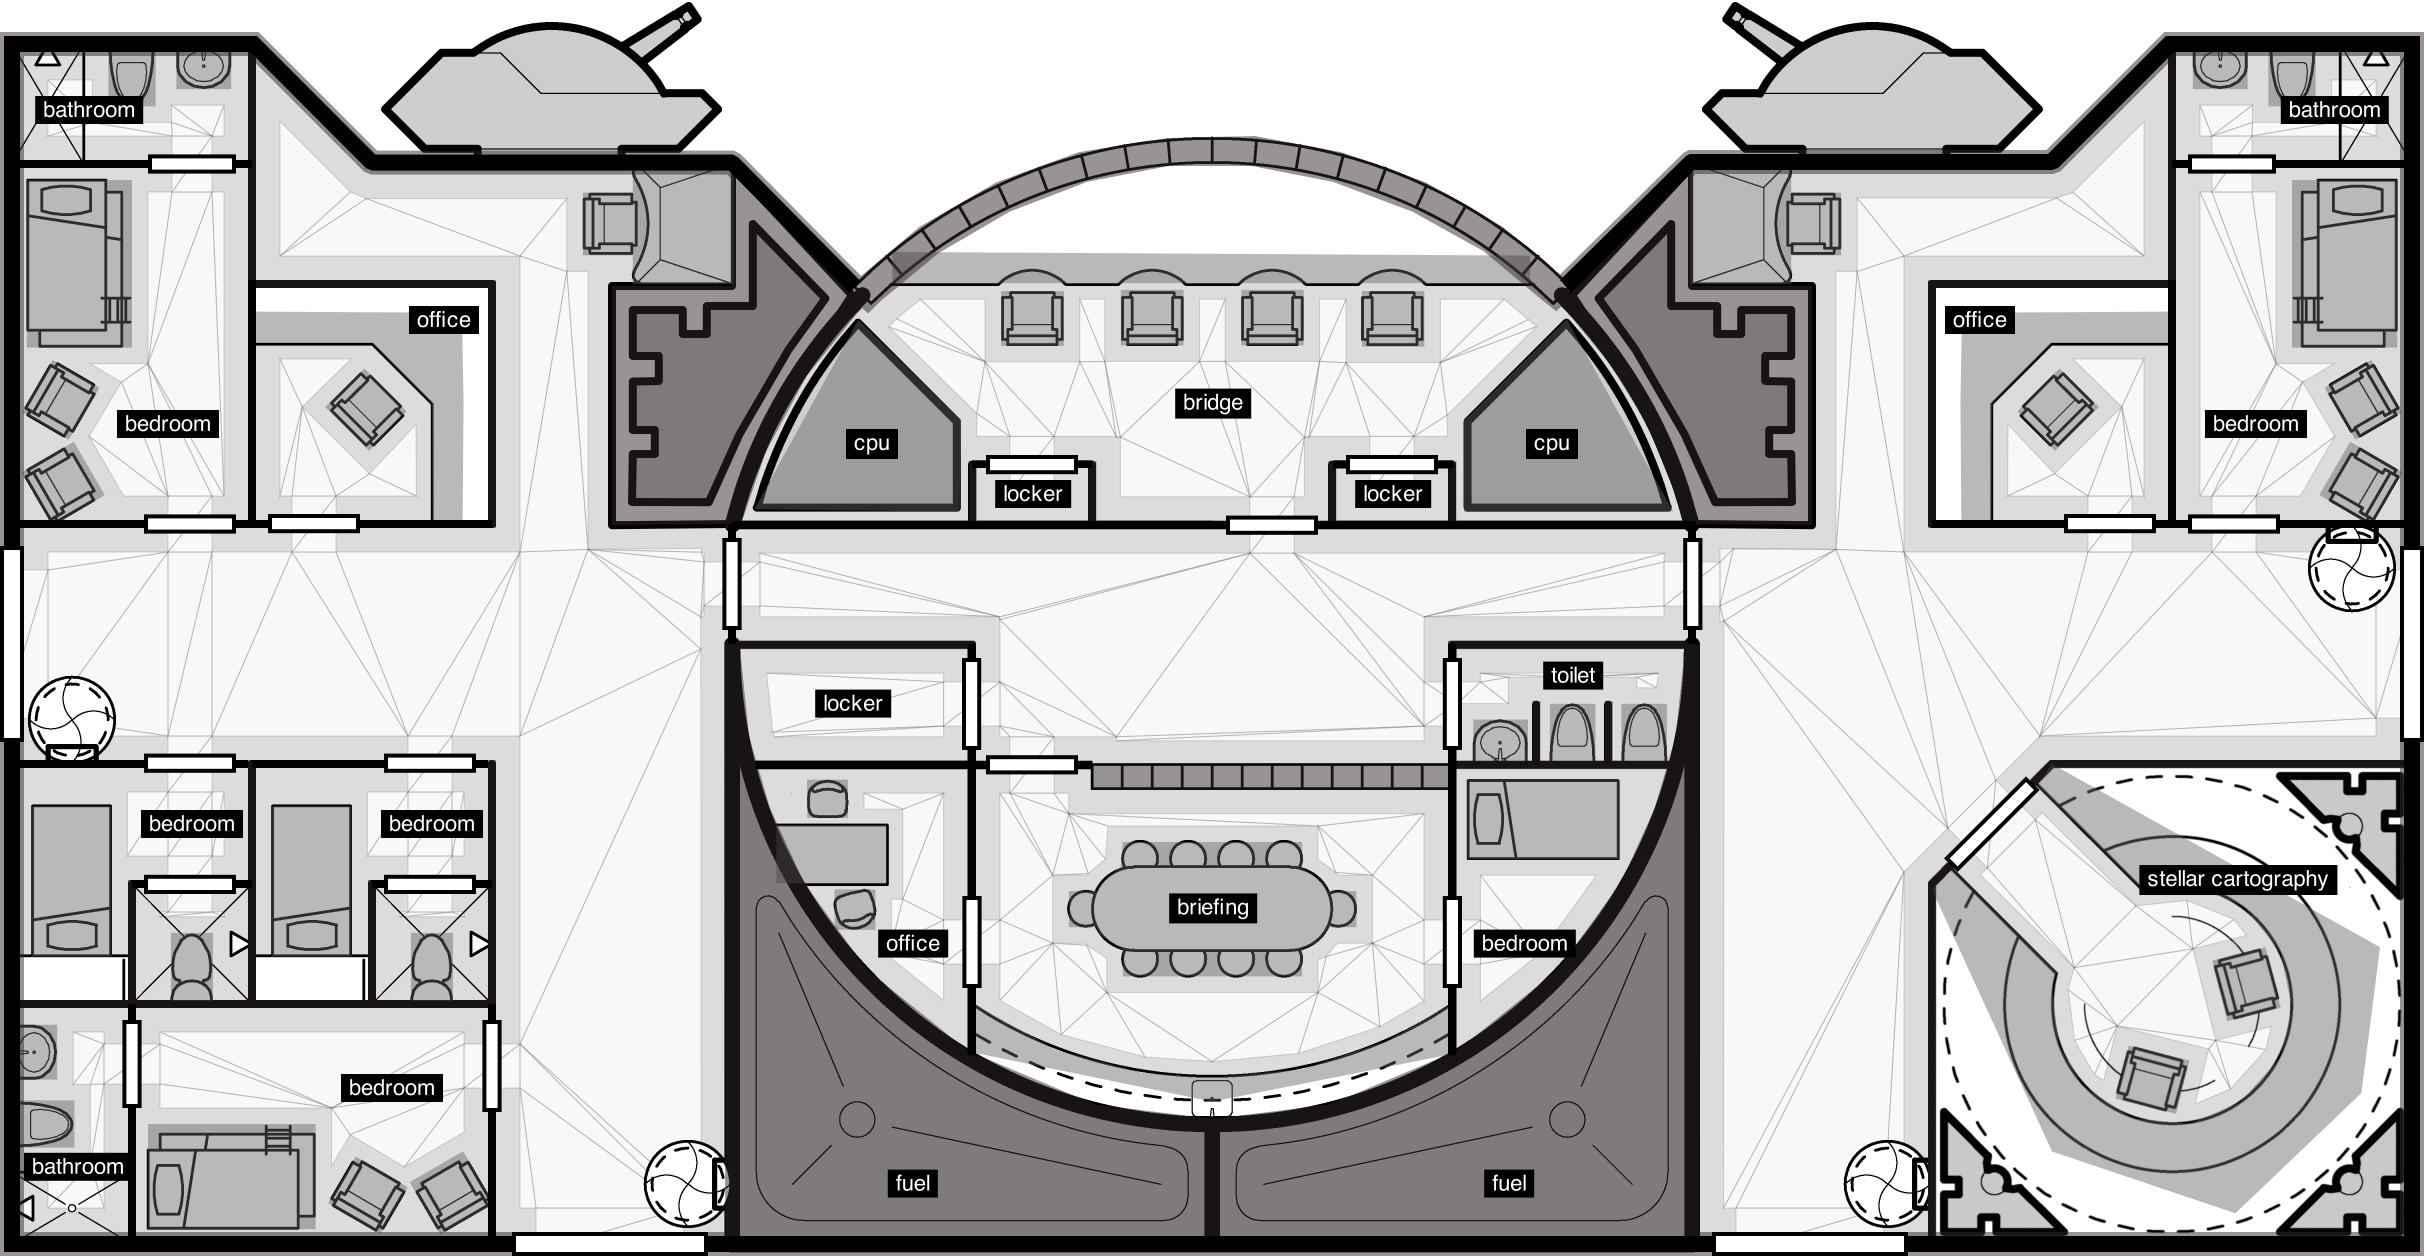
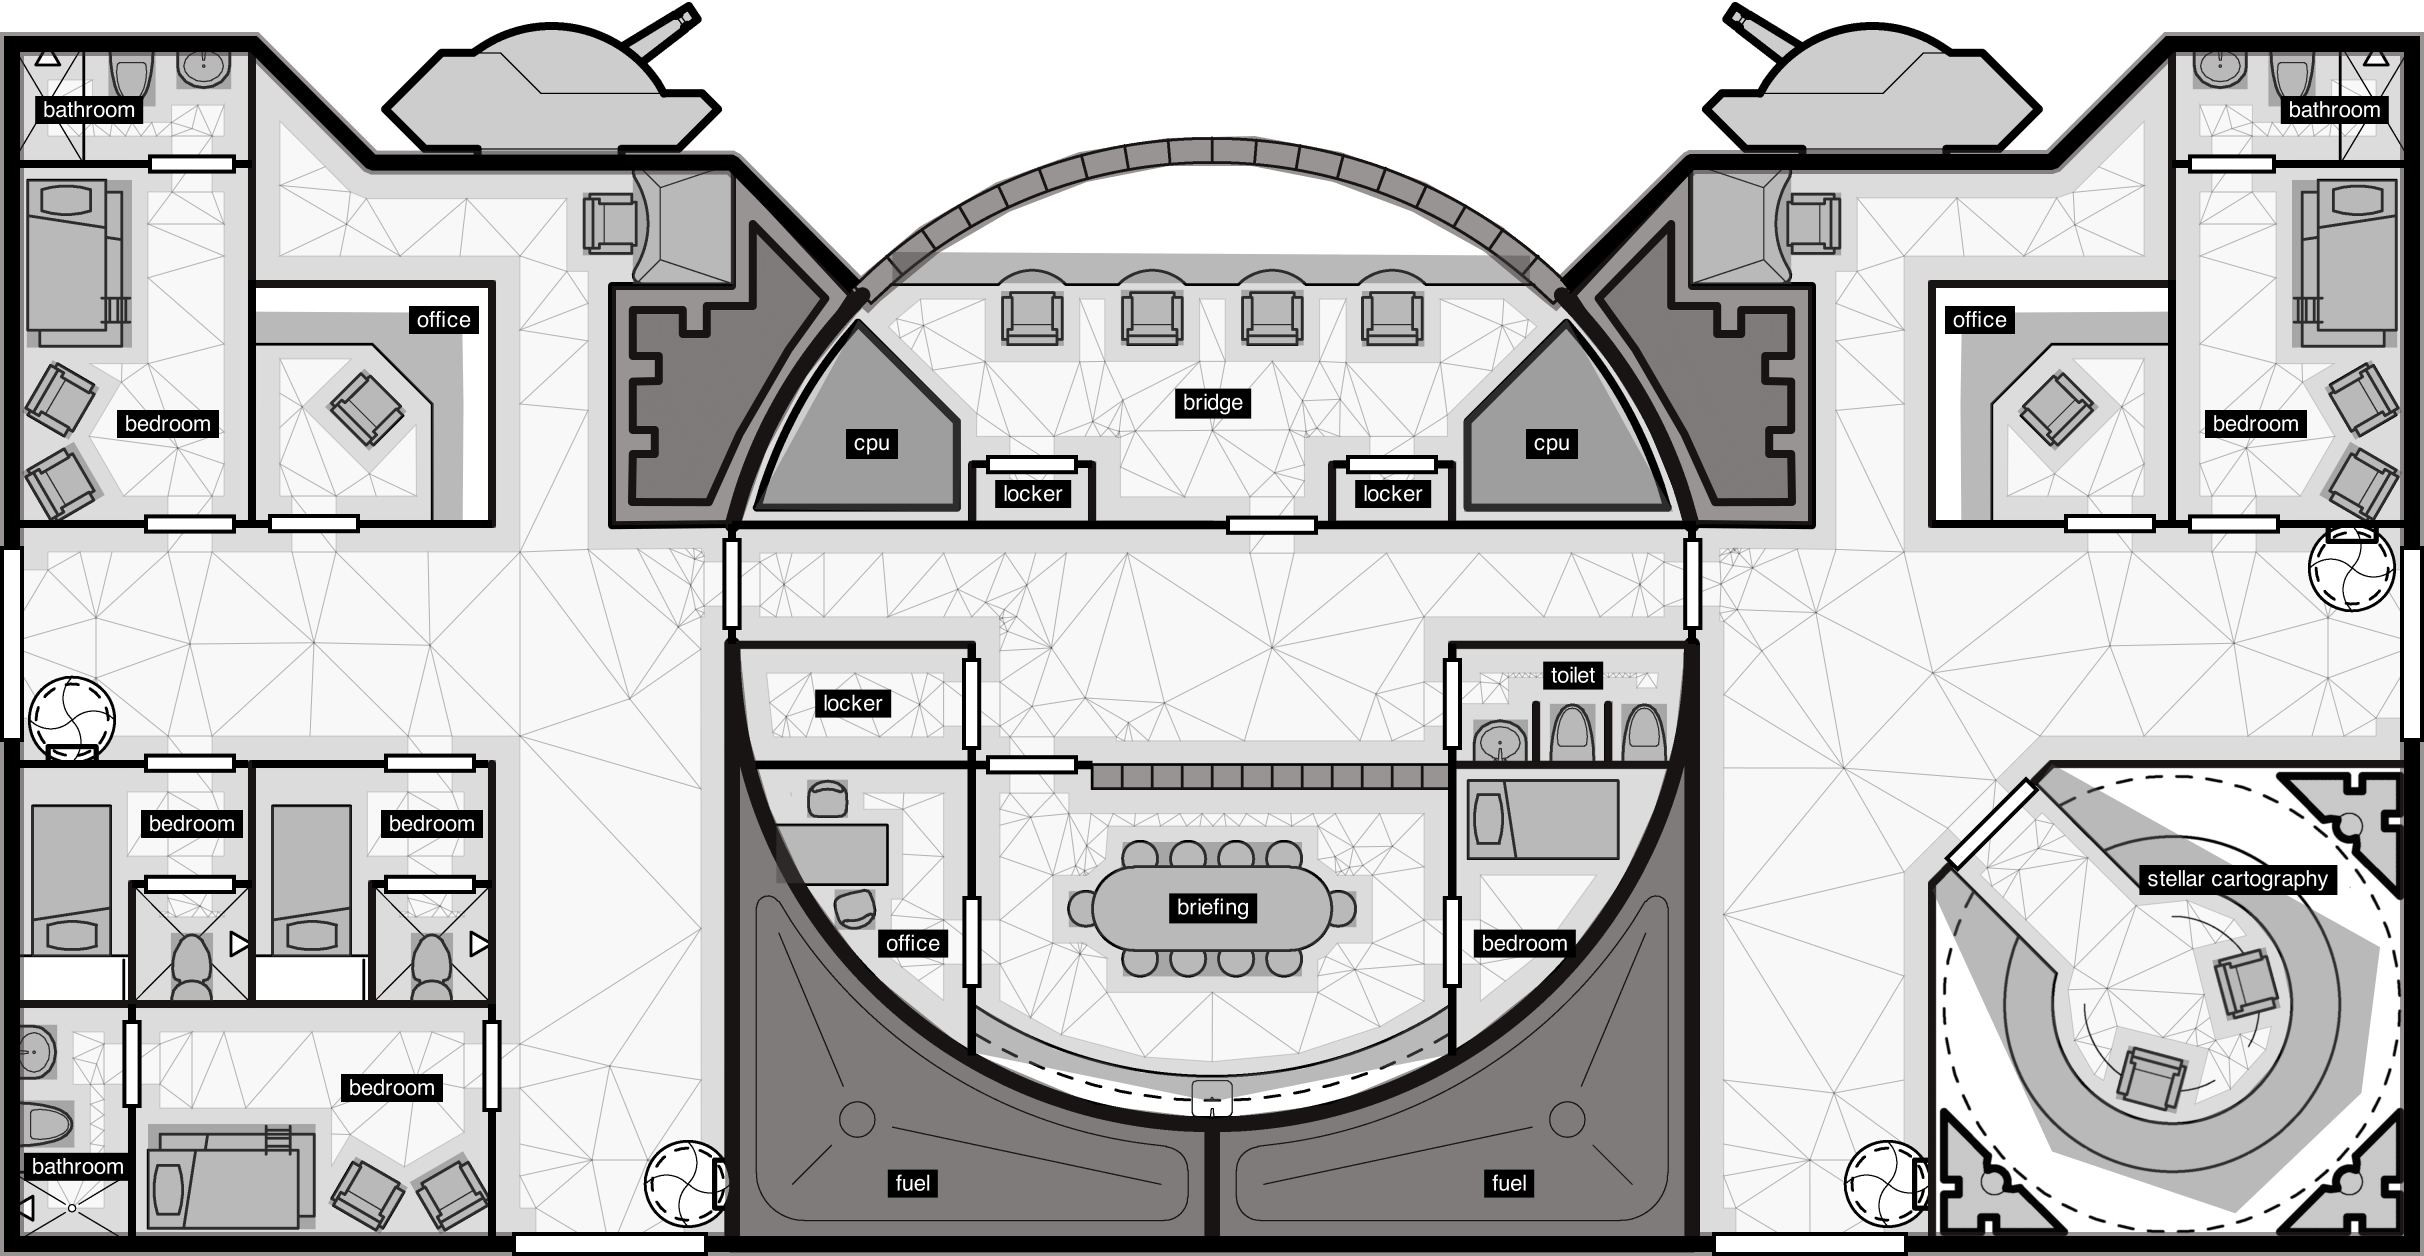
render-layout is using triangle-wasm

diff --git a/projects/geomorph/render.js b/projects/geomorph/render.js
@@ -2,7 +2,8 @@ import { Vect } from "../geom";
 import { labelMeta } from './geomorph.model';
 import { singlesToPolys } from '../service/geomorph';
 import { drawLine, drawTriangulation, fillPolygon, fillRing, setStyle, strokePolygon } from '../service/dom';
-import { geom } from "projects/service/geom";
+import { triangle } from "../service/triangle";
+// import { geom } from "../service/geom";
 
 /**
  * Render a single geomorph PNG,
@@ -53,8 +54,20 @@ export async function renderGeomorph(
   if (navTris) {
     ctxt.strokeStyle = navStroke;
     ctxt.lineWidth = 0.5;
-    const decomps = layout.navPoly.flatMap(x => x.qualityTriangulate());
-    decomps.forEach(decomp => drawTriangulation(ctxt, decomp));
+
+    /**
+     * TODO params?
+     */
+    const decomp = await triangle.triangulate(layout.navPoly, {
+      // minArea: req.body.minArea || false,
+      // minAngle: req.body.minAngle || false,
+      // maxSteiner: req.body.maxSteiner == null ? undefined : req.body.maxSteiner,
+    });
+    drawTriangulation(ctxt, decomp)
+
+    // Original approach
+    // const decomps = layout.navPoly.flatMap(x => x.qualityTriangulate());
+    // decomps.forEach(decomp => drawTriangulation(ctxt, decomp));
   }
 
   ctxt.lineJoin = 'round';

diff --git a/projects/example/TriangleDev.jsx b/projects/example/TriangleDev.jsx
@@ -8,11 +8,8 @@ import * as defaults from "./defaults";
 import PanZoom from "../panzoom/PanZoom";
 
 // TODO
-// - try triangle-wasm on nodejs ✅
-// - get triangle-wasm working in DEV browser ✅
-// - fix triangulation errors ✅
-// - remove recast service etc ✅
-// - ui controls to play with triangulation ✅
+// - Generate via Node.js
+// - CodeSandbox
 
 /**
  * @param {{ layoutKey: Geomorph.LayoutKey}} props 
@@ -123,9 +120,9 @@ export default function TriangleDev(props) {
   );
 }
 
-const initViewBox = new Rect(200, 0, 600, 600);
+const uiHeightPx = 170;
 
-const uiHeightPx = 200;
+const initViewBox = new Rect(0, -uiHeightPx, 600, 600);
 
 const ForeignObject = styled('foreignObject')`
   background: #eee;
@@ -140,10 +137,4 @@ const ForeignObject = styled('foreignObject')`
   div { display: flex; }
   label { cursor: pointer; user-select: none; }
   input[type="range"] { width: 80px; margin-right: 8px; }
-
-  /* div.min-area {
-  }
-  div.min-angle {
-    input[type="range"] { width: 80px; margin-right: 8px; }
-  } */
 `;

diff --git a/projects/service/triangle.js b/projects/service/triangle.js
@@ -1,4 +1,4 @@
-import { Vect } from "projects/geom";
+import { Vect } from "../geom/vect";
 import Triangle from 'triangle-wasm';
 
 class TriangleService {
@@ -29,7 +29,7 @@ class TriangleService {
       area: opts?.minArea || false,
       steiner: opts?.maxSteiner,
       // convexHull: true,
-      // jettison: true,
+      jettison: true,
       ccdt: true,
     }, input, output);
     

diff --git a/projects/service/dom.js b/projects/service/dom.js
@@ -185,7 +185,7 @@ export function setStyle(ctxt, fillStyle, strokeStyle, lineWidth) {
 
 /**
  * @param {CanvasRenderingContext2D} ctxt 
- * @param {Geom.Triangulation} decomp 
+ * @param {Geom.TriangulationJson} decomp 
  */
 export function drawTriangulation(ctxt, decomp) {
 	for (const triIds of decomp.tris) {

diff --git a/docs/plan.md b/docs/plan.md
@@ -68,6 +68,12 @@ Each __TODO__ should either:
   > https://rogue-markup.imgix.net/
   > https://console.cloud.google.com/storage/browser/rogue-markup;tab=objects?project=rogue-markup
 
+- ✅ Triangle (triangle-wasm) in browser dev
+  - try triangle-wasm on nodejs 
+  - get triangle-wasm working in DEV browser 
+  - fix triangulation errors 
+  - remove recast service etc 
+  - ui controls to play with triangulation 
 - ✅ copy-paste terminal x2 bug
 - ✅ add missing labels to 302
 - ✅ can continue from last scroll on hard refresh
